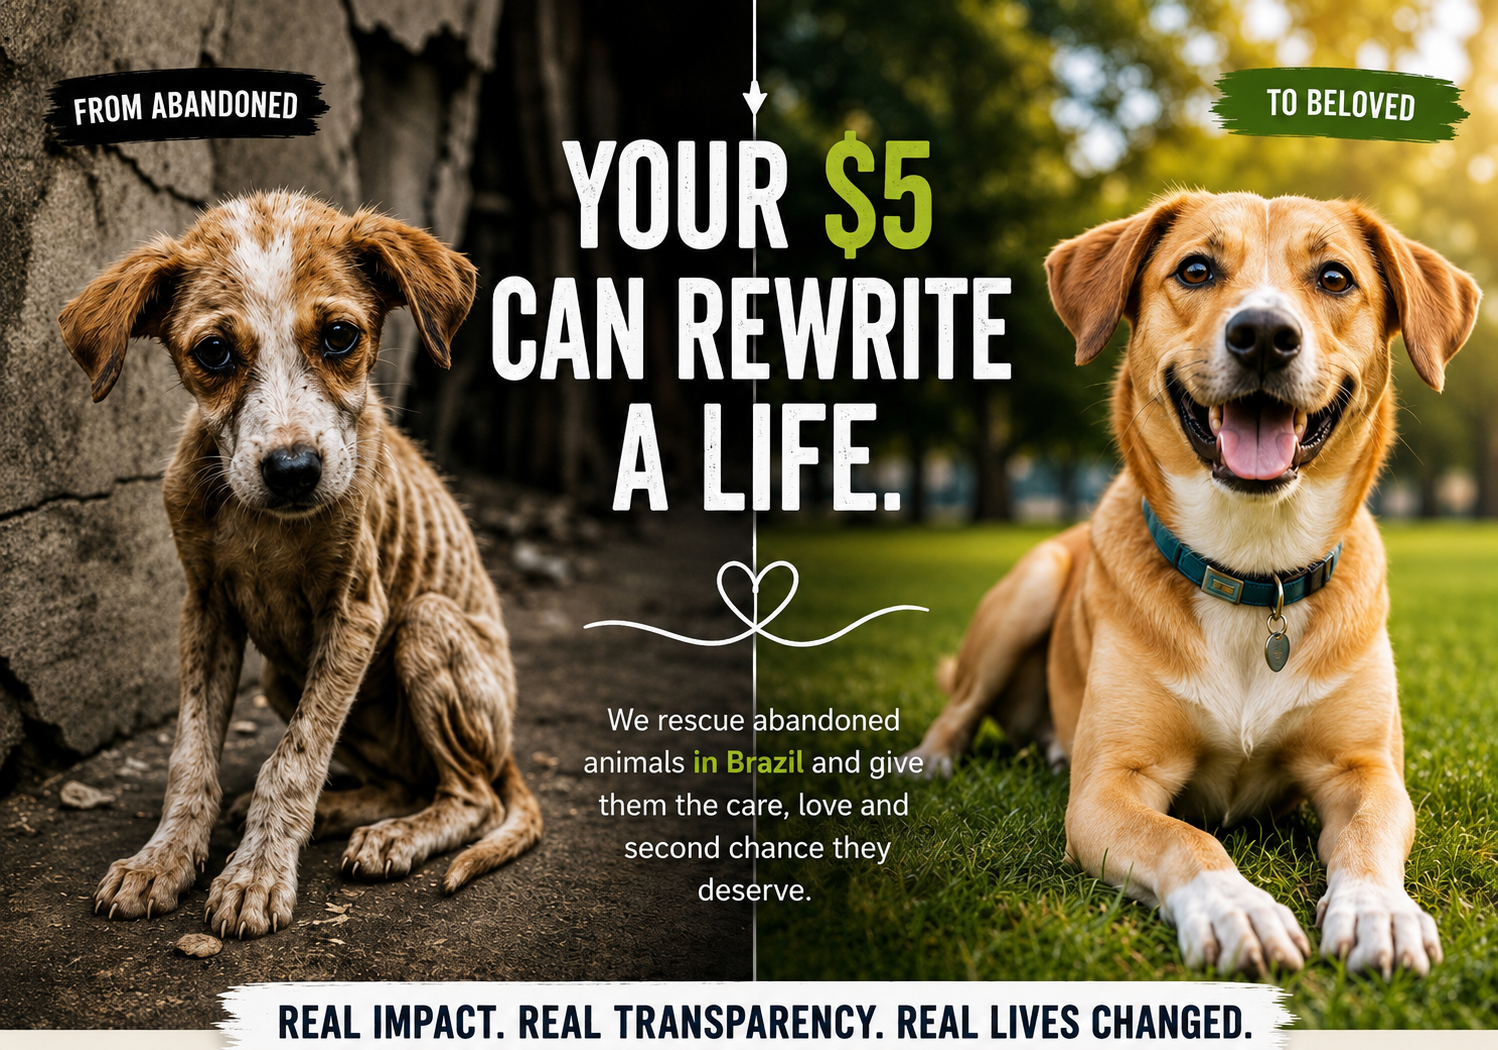
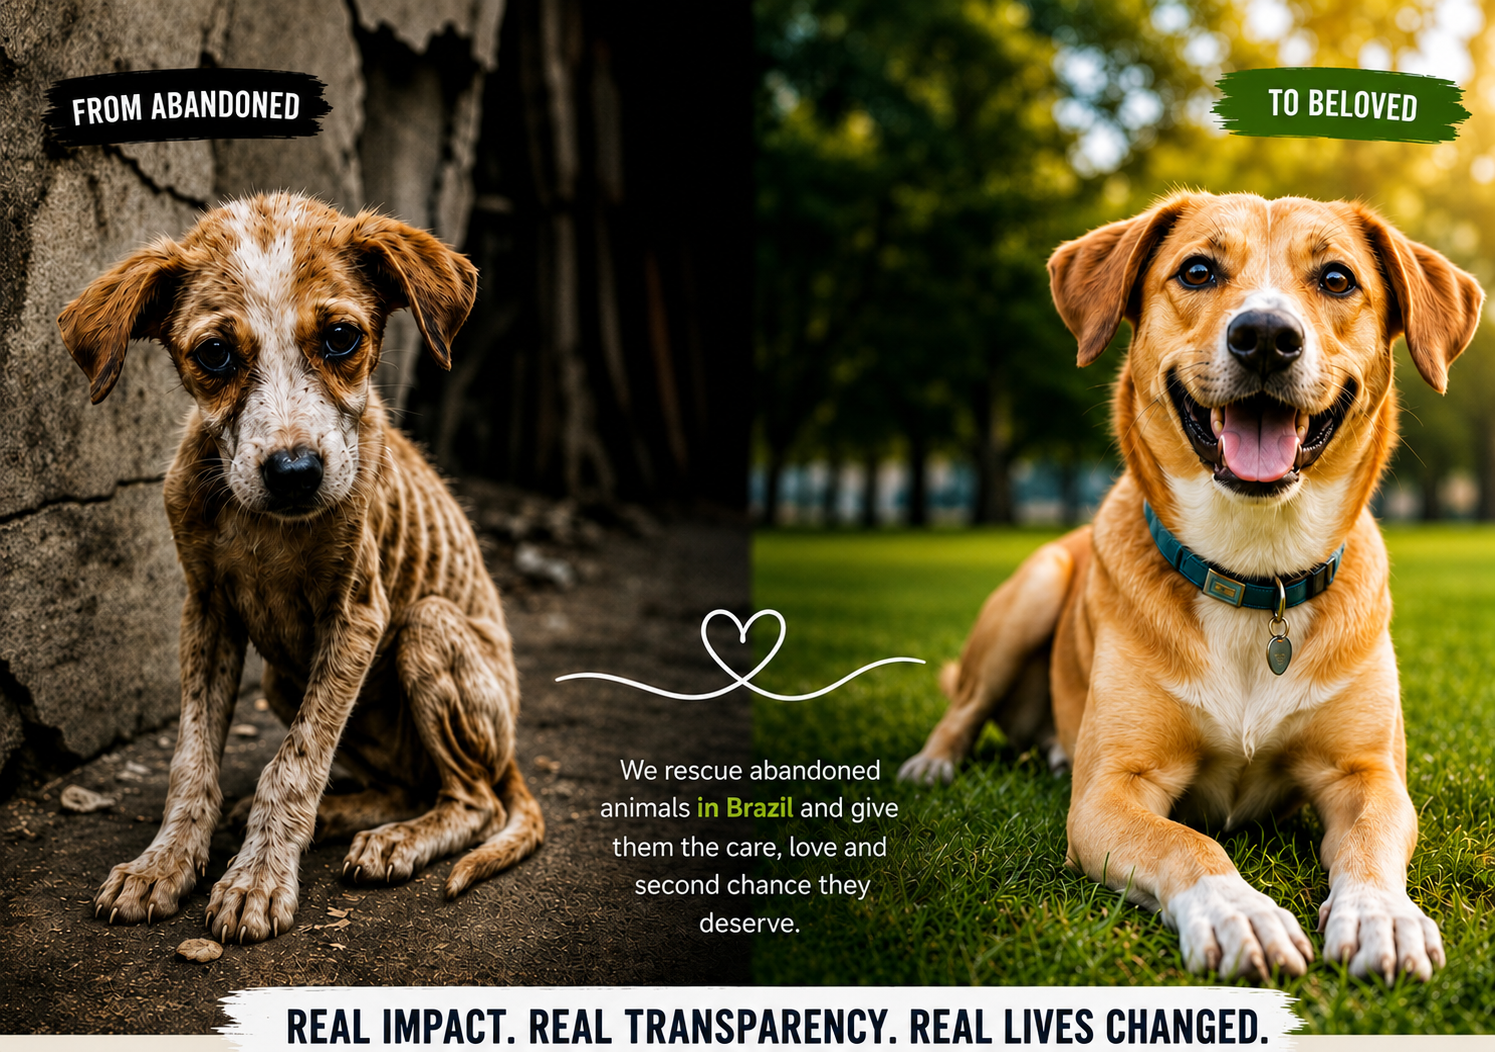
Remove nav brand link and update hero background image

diff --git a/index.html b/index.html
@@ -548,12 +548,11 @@ footer .fine { font-size:.8rem; opacity:.6; margin-top:30px; }
 
 <!-- Navigation -->
 <nav id="nav">
-  <a class="brand" href="#top"><span class="paw">🐾</span>Rescue Brazil</a>
   <div class="nav-links" id="navLinks">
     <a href="#plans">Monthly Plans</a>
     <a href="#mission">Our Mission</a>
     <a href="#stories">Stories</a>
-    <a href="#donate" class="btn btn-orange">Donate ❤</a>
+    <a href="#donate" class="btn btn-orange nav-donate-btn">Donate ❤</a>
   </div>
   <button class="menu-btn" id="menuBtn" aria-label="Open menu" aria-expanded="false">☰</button>
 </nav>